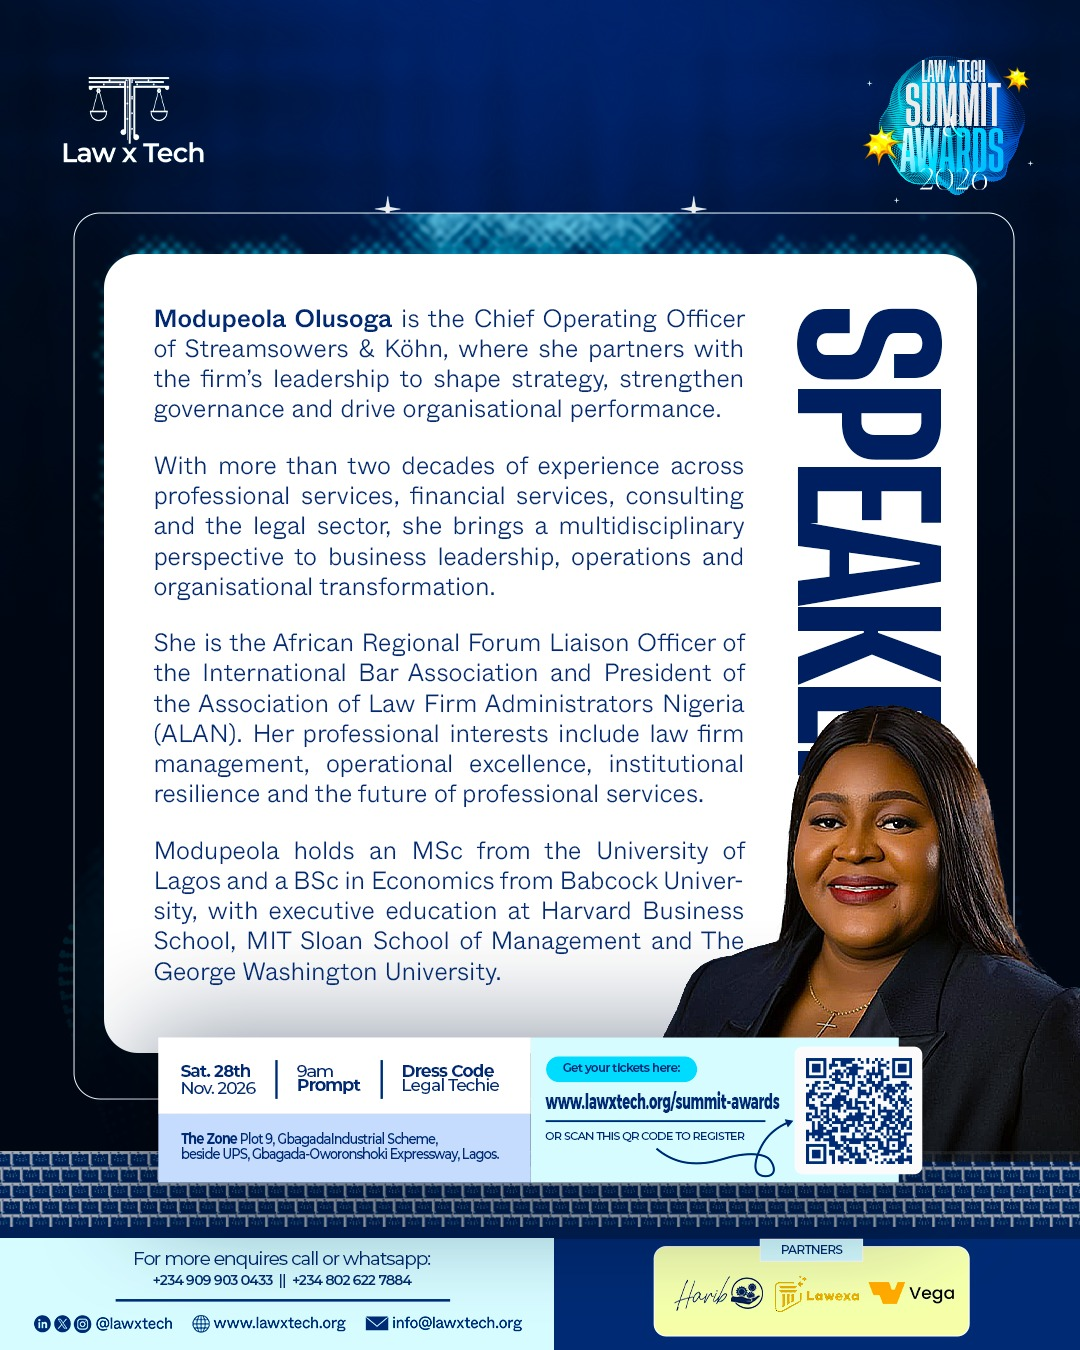
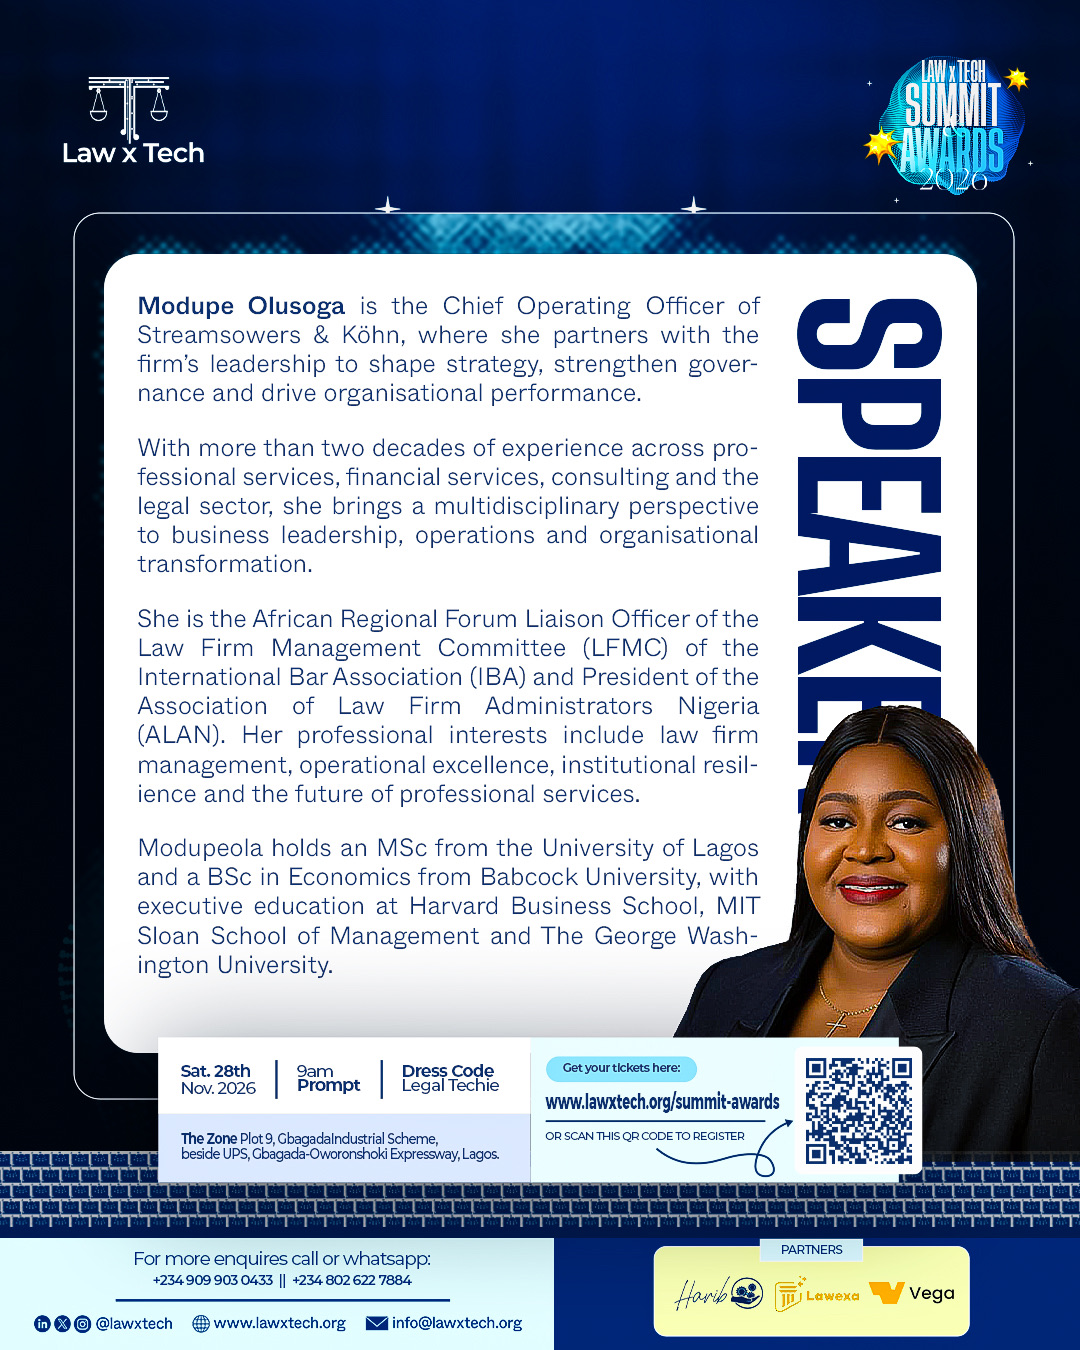
feat(home): add the full summit speaker line-up to the hero
The hero now shows all 15 speakers from the speaker flyers folder, not
just the first five.

- Add spotlight and bio flyers for Chioma Wilson-Dike, Enyinnaya Danjuma
  Chukwueke, Oladeji Awoniyi, Precious Ekong, Abiola Ogodo, Ridwan
  Badmus, Angel Asher, Adedunmade Onibokun, Bridget Ofomhi and Chisom
  Jeremiah Ijeomah, with bio text as alt text
- Replace Modupe Olusoga's flyers with the versions updated on 8 Nov
- Lead with the keynote (Chioma) and fireside (Enyinnaya) speakers, and
  show their billing next to the speaker count
- Make org optional, since some flyers give a title only
- Let the picker bars share the row so 15 fit on a phone without
  horizontal scroll
- Reserve height for the longest name and title so the buttons below
  don't jump as the hero rotates

diff --git a/components/summit/speakers.ts b/components/summit/speakers.ts
@@ -1,4 +1,8 @@
 import type { StaticImageData } from "next/image";
+import chiomaSpotlight from "@/public/assets/summit/speakers/chioma-wilson-dike-spotlight.jpeg";
+import chiomaBio from "@/public/assets/summit/speakers/chioma-wilson-dike-bio.jpeg";
+import enyinnayaSpotlight from "@/public/assets/summit/speakers/enyinnaya-danjuma-chukwueke-spotlight.jpeg";
+import enyinnayaBio from "@/public/assets/summit/speakers/enyinnaya-danjuma-chukwueke-bio.jpeg";
 import emmanuelSpotlight from "@/public/assets/summit/speakers/emmanuel-adebayo-spotlight.jpeg";
 import emmanuelBio from "@/public/assets/summit/speakers/emmanuel-adebayo-bio.jpeg";
 import eniolaSpotlight from "@/public/assets/summit/speakers/eniola-sogbesan-spotlight.jpeg";
@@ -9,12 +13,31 @@ import rexSpotlight from "@/public/assets/summit/speakers/rex-azubuike-spotlight
 import rexBio from "@/public/assets/summit/speakers/rex-azubuike-bio.jpeg";
 import modupeSpotlight from "@/public/assets/summit/speakers/modupe-olusoga-spotlight.jpeg";
 import modupeBio from "@/public/assets/summit/speakers/modupe-olusoga-bio.jpeg";
+import oladejiSpotlight from "@/public/assets/summit/speakers/oladeji-awoniyi-spotlight.jpeg";
+import oladejiBio from "@/public/assets/summit/speakers/oladeji-awoniyi-bio.jpeg";
+import preciousSpotlight from "@/public/assets/summit/speakers/precious-ekong-spotlight.jpeg";
+import preciousBio from "@/public/assets/summit/speakers/precious-ekong-bio.jpeg";
+import abiolaSpotlight from "@/public/assets/summit/speakers/abiola-ogodo-spotlight.jpeg";
+import abiolaBio from "@/public/assets/summit/speakers/abiola-ogodo-bio.jpeg";
+import ridwanSpotlight from "@/public/assets/summit/speakers/ridwan-badmus-spotlight.jpeg";
+import ridwanBio from "@/public/assets/summit/speakers/ridwan-badmus-bio.jpeg";
+import angelSpotlight from "@/public/assets/summit/speakers/angel-asher-spotlight.jpeg";
+import angelBio from "@/public/assets/summit/speakers/angel-asher-bio.jpeg";
+import adedunmadeSpotlight from "@/public/assets/summit/speakers/adedunmade-onibokun-spotlight.jpeg";
+import adedunmadeBio from "@/public/assets/summit/speakers/adedunmade-onibokun-bio.jpeg";
+import bridgetSpotlight from "@/public/assets/summit/speakers/bridget-ofomhi-spotlight.jpeg";
+import bridgetBio from "@/public/assets/summit/speakers/bridget-ofomhi-bio.jpeg";
+import chisomSpotlight from "@/public/assets/summit/speakers/chisom-jeremiah-ijeomah-spotlight.jpeg";
+import chisomBio from "@/public/assets/summit/speakers/chisom-jeremiah-ijeomah-bio.jpeg";
 
 export type SummitSpeaker = {
   slug: string;
   name: string;
   role: string;
-  org: string;
+  /** Omitted when the flyer gives a title without an organisation. */
+  org?: string;
+  /** Session billing printed on the flyer, for speakers who have one. */
+  billing?: "Keynote" | "Fireside chat";
   /** "Speaker Spotlight" flyer: portrait with name and role. */
   spotlight: StaticImageData;
   /** Bio flyer: the speaker's full biography as text in the image. */
@@ -25,11 +48,50 @@ export type SummitSpeaker = {
   facePosition: string;
 };
 
-const spotlightAlt = (name: string, title: string) =>
-  `Law x Tech Summit & Awards 2026 speaker spotlight: ${name}, ${title}. Saturday 28 November 2026, 9am at The Zone, Gbagada, Lagos.`;
+/** "Role, Org", or just the role when there is no organisation. */
+export const speakerTitle = (s: Pick<SummitSpeaker, "role" | "org">) =>
+  s.org ? `${s.role}, ${s.org}` : s.role;
 
-/** Speakers in the order their flyers were announced. */
+const spotlightAlt = (name: string, title: string, kind = "speaker") =>
+  `Law x Tech Summit & Awards 2026 ${kind} spotlight: ${name}, ${title}. Saturday 28 November 2026, 9am at The Zone, Gbagada, Lagos.`;
+
+/**
+ * The full speaker line-up: keynote first, then the fireside chat, then the
+ * remaining speakers in the order their flyers were announced.
+ */
 export const summitSpeakers: SummitSpeaker[] = [
+  {
+    slug: "chioma-wilson-dike",
+    name: "Chioma Wilson-Dike",
+    role: "Legal Innovation Strategist, AI Governance Advocate & Lawyer",
+    billing: "Keynote",
+    spotlight: chiomaSpotlight,
+    bio: chiomaBio,
+    spotlightAlt: spotlightAlt(
+      "Chioma Wilson-Dike",
+      "Legal Innovation Strategist, AI Governance Advocate and Lawyer",
+      "keynote speaker",
+    ),
+    bioAlt:
+      "Keynote speaker bio: Chioma Wilson-Dike is a legal innovation strategist, AI governance advocate, and Barrister and Solicitor. Her work spans AI adoption, legal operations, digital transformation and responsible AI governance. She is the Founder of Lexlytic and the Nigerian LegalTech Network, and has convened and contributed to events including Future Lawyer UK, LegalGeek, Legal Innovators and LegalTechTalk. She was named among ILTA's Influential Women in LegalTech 2026 and TechRound's Top 10 Women in LegalTech 2026, and ranked the #1 LegalTech & Legal Entrepreneurs Creator in Nigeria by Favikon.",
+    facePosition: "49% 37%",
+  },
+  {
+    slug: "enyinnaya-danjuma-chukwueke",
+    name: "Enyinnaya Danjuma Chukwueke",
+    role: "Lawyer, Public Policy Practitioner & Cybercrime Specialist",
+    billing: "Fireside chat",
+    spotlight: enyinnayaSpotlight,
+    bio: enyinnayaBio,
+    spotlightAlt: spotlightAlt(
+      "Enyinnaya Danjuma Chukwueke",
+      "Lawyer, Public Policy Practitioner and Cybercrime Specialist",
+      "fireside speaker",
+    ),
+    bioAlt:
+      "Speaker bio: Enyinnaya Danjuma Chukwueke is a Nigerian lawyer, public policy practitioner and cybercrime specialist. He serves as a Superintendent of Police and Legal Officer/Investigator at the Nigeria Police Force National Cybercrime Centre (NPF-NCCC), working on complex cyber-enabled financial crime and digital investigations. His career spans private legal practice, the corporate sector, internal affairs and counter-terrorism, and he contributes to policy on policing reform, cybercrime and technology governance. Called to the Nigerian Bar in 2015, he holds a BA in Philosophy, Politics and Economics from the University of York and recently completed the Master of Public Policy at the University of Oxford's Blavatnik School of Government.",
+    facePosition: "46% 37%",
+  },
   {
     slug: "emmanuel-adebayo",
     name: "Emmanuel Adebayo",
@@ -104,5 +166,114 @@ export const summitSpeakers: SummitSpeaker[] = [
     bioAlt:
       "Speaker bio: Modupeola Olusoga is Chief Operating Officer of Streamsowers & Köhn, with more than two decades across professional services, financial services, consulting and the legal sector. She is African Regional Forum Liaison Officer of the International Bar Association and President of the Association of Law Firm Administrators Nigeria (ALAN). She holds an MSc from the University of Lagos and a BSc in Economics from Babcock University.",
     facePosition: "44% 37%",
+  },
+  {
+    slug: "oladeji-awoniyi",
+    name: "Oladeji Awoniyi",
+    role: "Chief Executive Officer",
+    org: "Vega by MyPocketCounsel",
+    spotlight: oladejiSpotlight,
+    bio: oladejiBio,
+    spotlightAlt: spotlightAlt(
+      "Oladeji Awoniyi",
+      "Chief Executive Officer, Vega by MyPocketCounsel",
+    ),
+    bioAlt:
+      "Speaker bio: Oladeji Awoniyi is the Founder and CEO of MyPocketCounsel (MPC), a Google-backed legal tech company building Vega, an automation platform for contract drafting, document review and obligation tracking, built for legal teams across Africa and beyond. A lawyer and developer by background, Deji spent roughly a decade in Big Law commercial practice across Nigerian and cross-border matters before founding MPC, and has built numerous web and mobile applications over his career.",
+    facePosition: "51% 37%",
+  },
+  {
+    slug: "precious-ekong",
+    name: "Precious Ekong",
+    role: "Founder & CEO",
+    org: "Lawexa",
+    spotlight: preciousSpotlight,
+    bio: preciousBio,
+    spotlightAlt: spotlightAlt("Precious Ekong", "Founder & CEO, Lawexa"),
+    bioAlt:
+      "Speaker bio: Precious Ekong is the Founder and CEO of Lawexa, an AI-powered legal research and intelligence platform serving lawyers, law firms and law students across Nigeria, Ghana, Uganda and other jurisdictions. He has spent over a decade building legal technology, beginning with Precious Caseapp in 2016; Lawexa, launched in January 2026, has grown to over 10,000 users in nine months. He has built legal products at Moland Partners and served as in-house counsel at Imperial Homes Mortgage Bank (formerly GTHomes), and speaks on how AI is reshaping legal practice and creating new career opportunities for lawyers.",
+    facePosition: "44% 39%",
+  },
+  {
+    slug: "abiola-ogodo",
+    name: "Abiola Ogodo",
+    role: "Founder",
+    org: "ModulawAI",
+    spotlight: abiolaSpotlight,
+    bio: abiolaBio,
+    spotlightAlt: spotlightAlt("Abiola Ogodo", "Founder, ModulawAI"),
+    bioAlt:
+      "Speaker bio: Abiola Ogodo is the Founder of ModulawAI, an AI-native legal technology platform built to transform how lawyers research, draft, analyse documents and manage their legal work. With a background in software and product development, he brings research, document analysis, drafting and case management into one connected workspace, making AI practical for lawyers as an intelligent layer inside the tools they already use, including Microsoft Word.",
+    facePosition: "49% 39%",
+  },
+  {
+    slug: "ridwan-badmus",
+    name: "Ridwan Badmus",
+    role: "Head of Technology Law, Data Protection & AI Governance",
+    org: "Oguntoye & Oguntoye LP",
+    spotlight: ridwanSpotlight,
+    bio: ridwanBio,
+    spotlightAlt: spotlightAlt(
+      "Ridwan Badmus",
+      "Head of Technology Law, Data Protection & AI Governance",
+    ),
+    bioAlt:
+      "Speaker bio: Ridwan Badmus is the Head of Technology Law, Privacy and AI Governance & CTO at Oguntoye & Oguntoye LP, the Privacy Engineering and AI Governance Lead at TechStabs Consulting, and Co-Founder and Privacy Technologist at FR Data Protection. He holds the AIGP and CIPT credentials from the International Association of Privacy Professionals (IAPP), and advises organisations on integrating privacy, data protection and trustworthy AI requirements into their products, operations and governance structures.",
+    facePosition: "48% 41%",
+  },
+  {
+    slug: "angel-asher",
+    name: "Angel Asher",
+    role: "AI Governance Lawyer",
+    spotlight: angelSpotlight,
+    bio: angelBio,
+    spotlightAlt: spotlightAlt("Angel Asher", "AI Governance Lawyer"),
+    bioAlt:
+      "Speaker bio: Angel Asher is a lawyer who helps organisations build and use AI responsibly. At the Houston AI Institute, an AI education organisation, Angel gained hands-on experience reviewing international contracts, managing global programmes and building a brand voice focused on responsible AI and ethics. To bridge the gap between knowing the law and creating technology, Angel is learning AI product engineering to understand how legal rules can be built into everyday technology.",
+    facePosition: "46% 40%",
+  },
+  {
+    slug: "adedunmade-onibokun",
+    name: "Adedunmade Onibokun",
+    role: "Managing Partner",
+    org: "Adedunmade Onibokun & Co",
+    spotlight: adedunmadeSpotlight,
+    bio: adedunmadeBio,
+    spotlightAlt: spotlightAlt(
+      "Adedunmade Onibokun FICMC",
+      "Managing Partner, Adedunmade Onibokun & Co",
+    ),
+    bioAlt:
+      "Speaker bio: Adedunmade (Ade) Onibokun is a lawyer, author and Managing Partner at Adedunmade Onibokun & Co, a general practice firm specialising in corporate commercial law, representing banks, corporates, government agencies and state governments. He has a strong focus on Art Law and is the Founder of Legalnaija, a justice innovation startup with an Online Dispute Resolution mechanism. He received the Outstanding Young Professional Award at the 2022 Nigerian Legal Awards, is Secretary of the NBA Gender Justice and Violence Prevention Committee, Vice Chair of the NBASLP Entertainment and Media Sub-Committee, and a member of the Osun State Judicial Service Commission.",
+    facePosition: "46% 39%",
+  },
+  {
+    slug: "bridget-ofomhi",
+    name: "Bridget Ofomhi",
+    role: "Senior Product Manager",
+    org: "SunFi",
+    spotlight: bridgetSpotlight,
+    bio: bridgetBio,
+    spotlightAlt: spotlightAlt(
+      "Bridget Ofomhi",
+      "Senior Product Manager, SunFi, and former Lead Product Manager, LawPavilion",
+    ),
+    bioAlt:
+      "Speaker bio: Bridget Ofomhi is a Senior Product Manager at SunFi, an agent-led, AI-powered super distribution platform for clean-tech products and services, where she leads product and quality assurance teams. Previously, she was Lead Product Manager at LawPavilion, working on legal-tech and AI-powered products that support legal professionals in their research and practice. She brings a practical perspective on the decisions and trade-offs involved in building and growing digital products across industries.",
+    facePosition: "49% 37%",
+  },
+  {
+    slug: "chisom-jeremiah-ijeomah",
+    name: "Chisom Jeremiah Ijeomah",
+    role: "Senior Software & AI Engineer",
+    spotlight: chisomSpotlight,
+    bio: chisomBio,
+    spotlightAlt: spotlightAlt(
+      "Chisom Jeremiah Ijeomah",
+      "Senior Software & AI Engineer",
+    ),
+    bioAlt:
+      "Speaker bio: Chisom Jeremiah Ijeomah is a barrister and software engineer with over seven years of experience building digital products across fintech, edutech, artificial intelligence, cybersecurity and enterprise software. He leads engineering teams building secure, scalable digital solutions with a growing focus on AI engineering, and is interested in how legal frameworks can evolve to address emerging technologies and how a grounding in law helps engineers make more responsible decisions.",
+    facePosition: "50% 40%",
   },
 ];

diff --git a/components/home/SpeakerHighlightHero.tsx b/components/home/SpeakerHighlightHero.tsx
@@ -21,7 +21,10 @@ import {
   Ticket,
 } from "lucide-react";
 import FlyerLightbox from "@/components/summit/FlyerLightbox";
-import { summitSpeakers as speakers } from "@/components/summit/speakers";
+import {
+  speakerTitle,
+  summitSpeakers as speakers,
+} from "@/components/summit/speakers";
 import {
   SUMMIT_DATE_LABEL,
   SUMMIT_TICKETS_URL,
@@ -381,7 +384,9 @@ export default function SpeakerHighlightHero() {
             animate="visible"
             className="lg:self-start"
           >
-            <div className="min-h-[5.5rem] sm:min-h-[6.25rem]">
+            {/* Tall enough for the longest name and title in the line-up, so
+                the buttons below don't jump as speakers change. */}
+            <div className="min-h-33 sm:min-h-28">
               <AnimatePresence mode="wait" initial={false}>
                 <motion.div
                   key={speaker.slug}
@@ -393,12 +398,18 @@ export default function SpeakerHighlightHero() {
                   <p className="text-xs font-semibold uppercase tracking-[0.2em] text-[#5eead4]">
                     Speaker {String(index + 1).padStart(2, "0")} /{" "}
                     {String(count).padStart(2, "0")}
+                    {speaker.billing && (
+                      <span className="text-white/60">
+                        {" "}
+                        · {speaker.billing}
+                      </span>
+                    )}
                   </p>
                   <p className="mt-2 text-2xl font-bold text-white sm:text-3xl">
                     {speaker.name}
                   </p>
                   <p className="mt-1 text-sm text-white/70 sm:text-base">
-                    {speaker.role}, {speaker.org}
+                    {speakerTitle(speaker)}
                   </p>
                 </motion.div>
               </AnimatePresence>
@@ -407,7 +418,7 @@ export default function SpeakerHighlightHero() {
               aria-live={autoplay && !paused ? "off" : "polite"}
               className="sr-only"
             >
-              {`Speaker ${index + 1} of ${count}: ${speaker.name}, ${speaker.role}, ${speaker.org}.${flipped ? " Showing bio." : ""}`}
+              {`Speaker ${index + 1} of ${count}${speaker.billing ? ` (${speaker.billing})` : ""}: ${speaker.name}, ${speakerTitle(speaker)}.${flipped ? " Showing bio." : ""}`}
             </p>
 
             <div className="mt-7 flex flex-col gap-3 sm:flex-row sm:flex-wrap">
@@ -437,20 +448,22 @@ export default function SpeakerHighlightHero() {
             <div
               role="group"
               aria-label="Choose a speaker"
-              className="mt-5 flex gap-2"
+              className="mt-5 flex w-full max-w-md"
             >
               {speakers.map((s, i) => {
                 const active = i === index;
                 return (
-                  // The bar is the control; the button's height gives it a
-                  // comfortable tap target around the thin track.
+                  // The bar is the control; the button's height and side
+                  // padding give it a comfortable tap target around the thin
+                  // track. Buttons share the row, so the full line-up fits
+                  // on a phone without the bars turning into dots.
                   <button
                     key={s.slug}
                     type="button"
                     onClick={() => show(i)}
                     aria-label={`Show ${s.name}`}
                     aria-pressed={active}
-                    className="group flex h-11 w-12 items-center rounded-sm focus-visible:outline-none focus-visible:ring-2 focus-visible:ring-teal sm:w-14"
+                    className="group flex h-11 min-w-0 flex-1 items-center rounded-sm px-[3px] focus-visible:outline-none focus-visible:ring-2 focus-visible:ring-teal"
                   >
                     <span
                       aria-hidden
